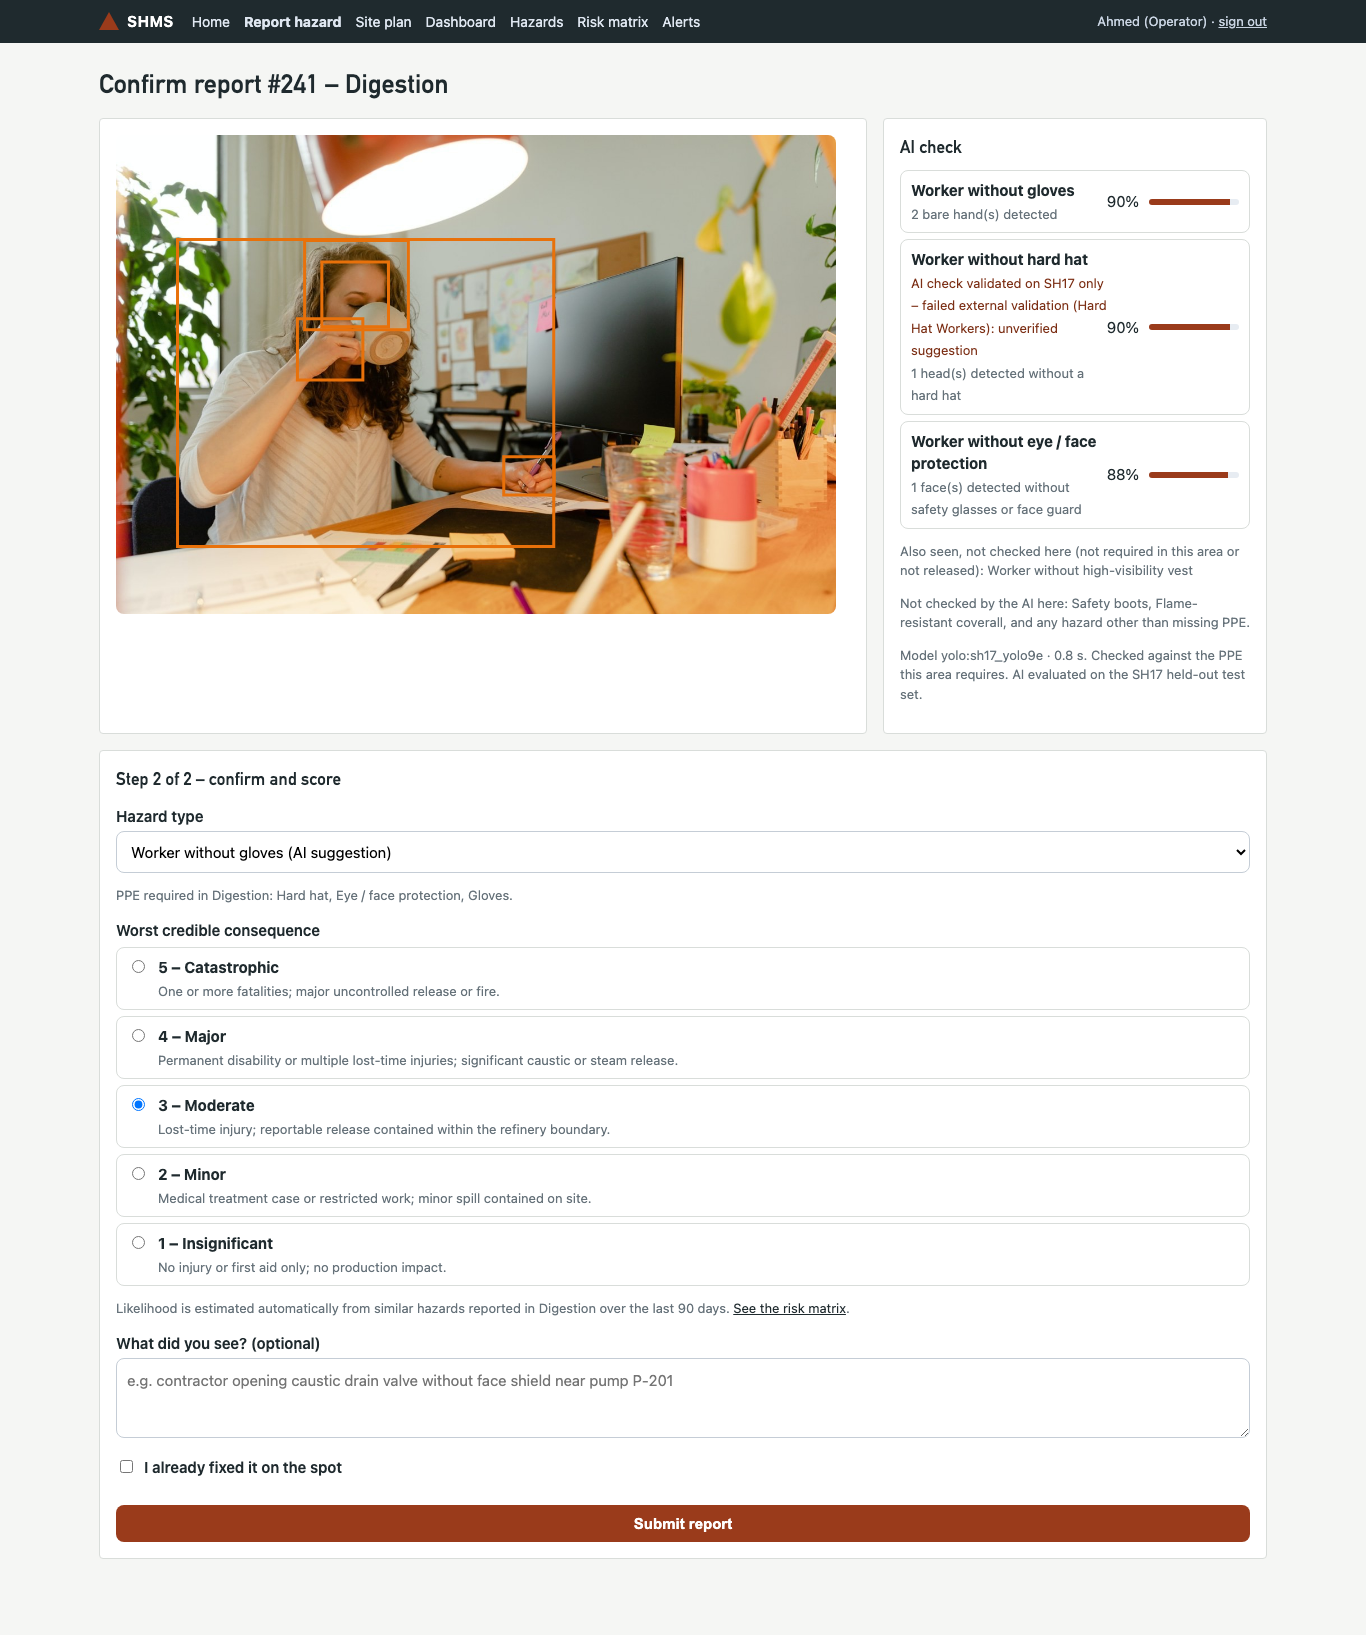
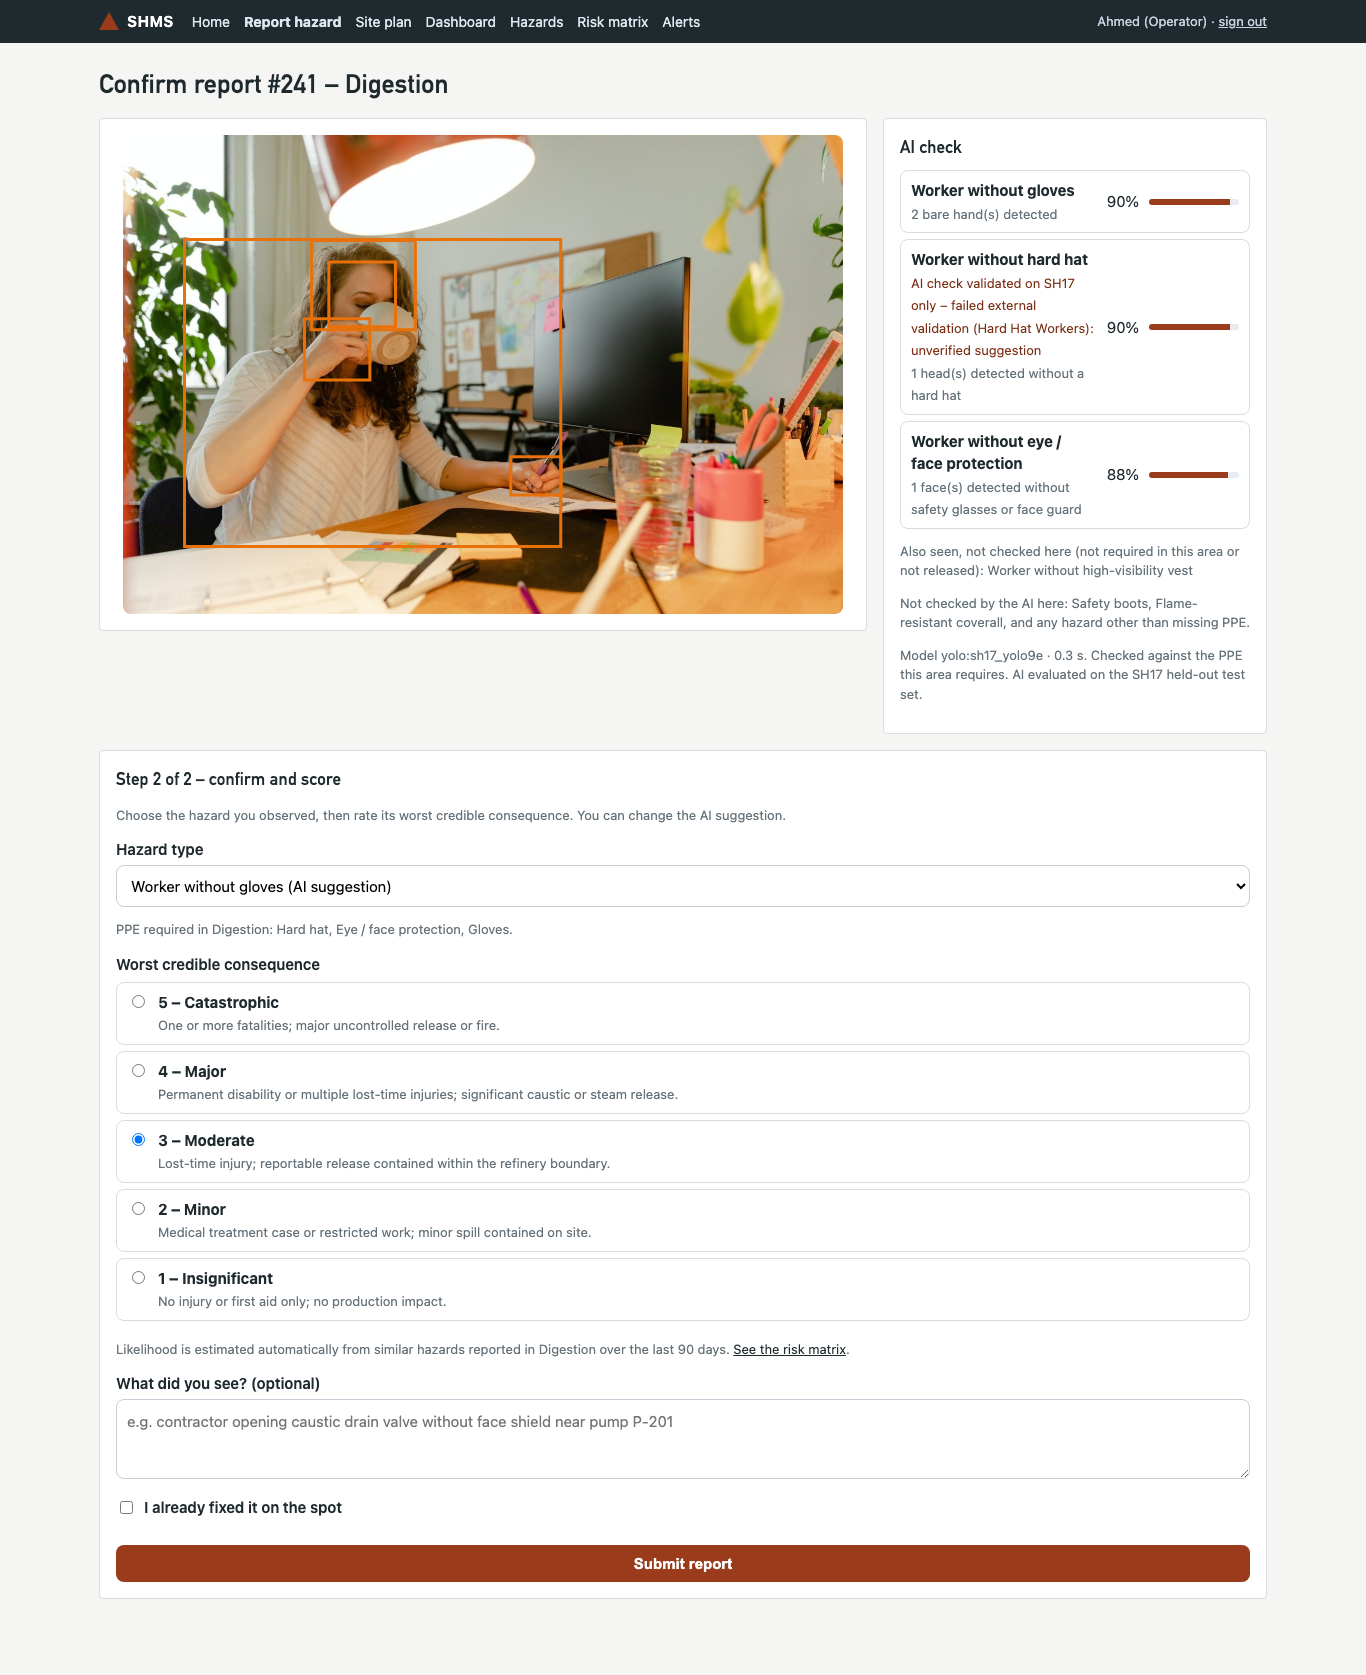
Improve accessible safety workflows and verify area entry for each role

diff --git a/shms/static/style.css b/shms/static/style.css
@@ -40,15 +40,15 @@ table { width: 100%; border-collapse: collapse; font-size: 14px; }
 th, td { text-align: left; padding: 8px 6px; border-bottom: 1px solid var(--line); vertical-align: top; }
 th { color: var(--muted); font-weight: 600; font-size: 13px; }
 .lvl { display: inline-block; border-radius: 6px; padding: 1px 8px; font-size: 12px; font-weight: 700; color: #fff; white-space: nowrap; }
-.lvl.Low { background: var(--low); } .lvl.Medium { background: var(--medium); color: #3b2d00; }
-.lvl.High { background: var(--high); } .lvl.Extreme { background: var(--extreme); }
+.lvl.Low { background: var(--low); } .lvl.Medium { background: var(--medium); color: #221a00; }
+.lvl.High { background: var(--high); color: #221a00; } .lvl.Extreme { background: var(--extreme); }
 .st { display: inline-block; border-radius: 6px; padding: 1px 8px; font-size: 12px; background: #e7ecf2; }
 .st.open { background: #fff1e0; color: #8a4b00; } .st.closed { background: #e6f4e7; color: #1f5f22; }
 .st.planned { background: #e8f0fb; color: #1d4f91; } .st.pending_verification { background: #f3e8fb; color: #5b2a86; }
 .timeline li.verified::before { background: var(--low); } .timeline li.rejected::before, .timeline li.reopened::before { background: var(--extreme); }
 .muted { color: var(--muted); } .small { font-size: 13px; }
 label { display: block; font-weight: 600; margin: 12px 0 4px; }
-input[type=text], select, textarea, input[type=file] { width: 100%; padding: 10px; border: 1px solid #c5cdd6; border-radius: 8px; font: inherit; background: #fff; }
+input[type=text], input[type=password], select, textarea, input[type=file] { width: 100%; padding: 10px; border: 1px solid #c5cdd6; border-radius: 8px; font: inherit; background: #fff; }
 textarea { min-height: 80px; }
 .radio-list label { font-weight: 400; display: flex; gap: 10px; align-items: flex-start; border: 1px solid var(--line); border-radius: 8px; padding: 8px 10px; margin: 6px 0; cursor: pointer; }
 .radio-list input { margin-top: 4px; }
@@ -126,3 +126,25 @@ h3 { font-size: 15px; margin: 14px 0 8px; }
 }
 @media (max-width: 600px) { .plan-tools { position: static; justify-content: flex-end; padding: 6px; border-bottom: 1px solid var(--line); } }
 .caveat { color: var(--accent-dark); }
+
+.table-scroll { overflow-x: auto; }
+.grid > *, .cols > * { min-width: 0; }
+.radio-list { margin: 14px 0 0; padding: 0; border: 0; }
+.radio-list legend { padding: 0; font-weight: 600; }
+.skip-link { position: absolute; z-index: 5; top: 8px; left: 8px; transform: translateY(-180%); background: white; padding: 8px 14px; }
+.skip-link:focus { transform: none; }
+:focus-visible { box-shadow: 0 0 0 5px var(--brand); }
+@media (max-width: 600px) {
+  header.top nav { flex-basis: 100%; column-gap: 16px; row-gap: 0; }
+  header.top nav a { display: inline-flex; align-items: center; min-height: 32px; }
+  header.top .bar { gap: 6px; }
+  .btn, select, input[type=text], input[type=password] { min-height: 44px; }
+}
+
+.confirm-evidence { grid-template-columns: minmax(0, 3fr) minmax(320px, 2fr); align-items: start; }
+.confirm-evidence .photo-wrap { display: block; width: fit-content; margin: 0 auto; }
+.confirm-evidence .sugg { gap: 12px; }
+@media (max-width: 860px) {
+  .confirm-evidence { grid-template-columns: 1fr; }
+  .confirm-evidence .sugg { flex-wrap: wrap; }
+}

diff --git a/shms/templates/hazards.html b/shms/templates/hazards.html
@@ -4,13 +4,13 @@
 {% block content %}
 <h1>Hazard register</h1>
 <form class="card filters" method="get">
-  <div><label>Status</label><select name="status"><option value="">All</option>
+  <div><label for="filter-status">Status</label><select id="filter-status" name="status"><option value="">All</option>
     {% for s in ('open','planned','pending_verification','closed') %}<option value="{{ s }}" {% if f.status == s %}selected{% endif %}>{{ s | replace('_', ' ') }}</option>{% endfor %}</select></div>
-  <div><label>Area</label><select name="area"><option value="">All</option>
+  <div><label for="filter-area">Area</label><select id="filter-area" name="area"><option value="">All</option>
     {% for a in areas %}<option value="{{ a.code }}" {% if f.area == a.code %}selected{% endif %}>{{ a.name }}</option>{% endfor %}</select></div>
-  <div><label>Risk level</label><select name="level"><option value="">All</option>
+  <div><label for="filter-level">Risk level</label><select id="filter-level" name="level"><option value="">All</option>
     {% for l in ('Extreme','High','Medium','Low') %}<option {% if f.level == l %}selected{% endif %}>{{ l }}</option>{% endfor %}</select></div>
-  <div><label>Type</label><select name="category"><option value="">All</option>
+  <div><label for="filter-category">Type</label><select id="filter-category" name="category"><option value="">All</option>
     {% for code in taxonomy.enabled_codes() %}{% set c = taxonomy.get(code) %}<option value="{{ c.code }}" {% if f.category == c.code %}selected{% endif %}>{{ c.name }}</option>{% endfor %}</select></div>
   <div style="flex:0"><button class="btn" type="submit">Filter</button></div>
 </form>
@@ -22,7 +22,7 @@
     <tr><td><a href="/hazards/{{ h.id }}">{{ h.id }}</a></td><td>{{ h.created_at | dt }}</td><td>{{ h.area.code }}</td>
       <td>{{ h.category_code | cat }}</td><td>{{ level(h.risk_level) }} {{ h.risk_score }}</td><td>{{ status(h.status) }}</td>
       <td class="small muted">{{ h.closure_action or '' }}</td></tr>
-    {% endfor %}
+    {% else %}<tr><td colspan="7" class="muted">No hazards match these filters. <a href="/hazards">Clear filters</a></td></tr>{% endfor %}
   </table>
 </div>
 {% endblock %}

diff --git a/shms/templates/confirm.html b/shms/templates/confirm.html
@@ -4,8 +4,8 @@
 {% block content %}
 {% set req = suggestions | selectattr('required') | list %}{% set top = req[0] if req else None %}
 <h1>Confirm report #{{ h.id }} – {{ h.area.name }}</h1>
-{% if error %}<div class="alert err">{{ error }}</div>{% endif %}
-<div class="grid two">
+{% if error %}<div class="alert err" role="alert">{{ error }}</div>{% endif %}
+<div class="grid two confirm-evidence">
   <div class="card">
     {% if h.photo_path %}
       {% set ev = [] %}{% for s in suggestions %}{% for b in s.evidence %}{% set _ = ev.append(b) %}{% endfor %}{% endfor %}
@@ -41,6 +41,7 @@
 <form class="card" method="post" action="/hazards/{{ h.id }}/confirm" enctype="multipart/form-data">
       <input type="hidden" name="csrf_token" value="{{ csrf_token }}">
   <h2>Step 2 of 2 – confirm and score</h2>
+  <p class="muted small">Choose the hazard you observed, then rate its worst credible consequence. You can change the AI suggestion.</p>
   <label for="cat">Hazard type</label>
   <select id="cat" name="category_code" required>
     {% for code in h.area.report_codes %}{% set c = taxonomy.get(code) %}
@@ -49,13 +50,12 @@
   </select>
   <p class="muted small">PPE required in {{ h.area.name }}: {{ h.area.check_codes | map('ppe') | join(', ') }}.</p>
 
-  <label>Worst credible consequence</label>
-  <div class="radio-list">
+  <fieldset class="radio-list"><legend>Worst credible consequence</legend>
   {% for lvl, spec in consequences.items() | reverse %}
     <label><input type="radio" name="consequence" value="{{ lvl }}" required {% if top and taxonomy.get(top.code).default_consequence == lvl %}checked{% endif %}>
       <span><strong>{{ lvl }} – {{ spec.name }}</strong><br><span class="muted small">{{ spec.definition }}</span></span></label>
   {% endfor %}
-  </div>
+  </fieldset>
   <p class="muted small">Likelihood is estimated automatically from similar hazards reported in {{ h.area.name }} over the last {{ risk.lookback_days() }} days. <a href="/matrix" target="_blank">See the risk matrix</a>.</p>
 
   <label for="desc">What did you see? (optional)</label>

diff --git a/shms/templates/_macros.html b/shms/templates/_macros.html
@@ -18,7 +18,7 @@
 {% macro heatmap(rows) -%}
 {% set colors = {'Low': '#2e7d32', 'Medium': '#f9a825', 'High': '#ef6c00', 'Extreme': '#c62828'} %}
 <div class="heatmap">
-<svg viewBox="0 0 1000 590" role="img" aria-label="Refinery heat map of open hazard risk by area">
+<svg viewBox="0 0 1000 590" role="group" aria-label="Refinery heat map of open hazard risk by area">
   <rect x="0" y="0" width="1000" height="590" fill="#eef1f4" rx="10"/>
   <!-- Bayer process flow (synthesized layout) -->
   <g stroke="#9aa6b2" stroke-width="4" fill="none" stroke-dasharray="8 6">
@@ -26,7 +26,7 @@
     <path d="M905 270 V300"/><path d="M660 425 H640"/><path d="M360 425 H380"/>
   </g>
   {% for r in rows %}{% set a = r.area %}
-  <a href="/areas/{{ a.code }}">
+  <a href="/areas/{{ a.code }}" aria-label="{{ a.name }}: {{ r.open }} open, total open risk {{ r.heat }}">
     <rect x="{{ a.x }}" y="{{ a.y }}" width="{{ a.w }}" height="{{ a.h }}" rx="8"
           fill="{{ colors[r.worst_level] if r.worst_level else '#cfd8dc' }}"
           fill-opacity="{{ (0.25 + 0.75 * r.heat_ratio) if r.worst_level else 0.6 }}" stroke="#1f3a5f" stroke-width="2"/>

diff --git a/shms/templates/matrix.html b/shms/templates/matrix.html
@@ -16,12 +16,12 @@
 <section class="panel source project">
   <h2>Defined by this project</h2>
   <div class="cols">
-    <div style="overflow-x:auto">
+    <div class="table-scroll" role="region" aria-label="Consequence by likelihood scores" tabindex="0">
       <table class="matrix">
         <tr><th></th>{% for lk, spec in risk.likelihood_levels().items() %}<th style="text-align:center">L{{ lk }}<br>{{ spec.name }}</th>{% endfor %}</tr>
         {% for row in table %}
         <tr><th>C{{ row[0].consequence }} {{ risk.consequence_levels()[row[0].consequence].name }}</th>
-          {% for cell in row %}<td style="background:{{ cell.color }}{% if cell.level == 'Medium' %};color:#3b2d00{% endif %}">{{ cell.score }}<br><span style="font-weight:400;font-size:11px">{{ cell.level }}</span></td>{% endfor %}</tr>
+          {% for cell in row %}<td style="background:{{ cell.color }}{% if cell.level in ('Medium', 'High') %};color:#221a00{% endif %}">{{ cell.score }}<br><span style="font-weight:400;font-size:11px">{{ cell.level }}</span></td>{% endfor %}</tr>
         {% endfor %}
       </table>
     </div>

diff --git a/shms/templates/login.html b/shms/templates/login.html
@@ -3,11 +3,11 @@
 {% block content %}
 <div class="card" style="max-width:420px;margin:30px auto">
   <h1>Sign in</h1>
-  {% if error %}<div class="alert err small">{{ error }}</div>{% endif %}
+  {% if error %}<div class="alert err small" role="alert">{{ error }}</div>{% endif %}
   <form method="post" action="/login">
     <input type="hidden" name="csrf_token" value="{{ csrf_token }}">
     <label for="u">Username</label>
-    <input id="u" name="username" autocomplete="username" required autofocus>
+    <input type="text" id="u" name="username" autocomplete="username" required autofocus>
     <label for="p">Password</label>
     <input id="p" name="password" type="password" autocomplete="current-password" required>
     <br><br><button class="btn" type="submit">Sign in</button>

diff --git a/shms/templates/base.html b/shms/templates/base.html
@@ -7,6 +7,7 @@
   <link rel="stylesheet" href="/static/style.css">
 </head>
 <body>
+<a class="skip-link" href="#main">Skip to main content</a>
 <header class="top"><div class="bar">
   <a class="logo" href="/"><span class="tri"></span>SHMS</a>
   {% if user %}
@@ -24,7 +25,7 @@
   <div class="who">{{ user.name }} · <form method="post" action="/logout" style="display:inline"><input type="hidden" name="csrf_token" value="{{ csrf_token }}"><button class="linkbtn" type="submit">sign out</button></form></div>
   {% endif %}
 </div></header>
-<main>
+<main id="main" tabindex="-1">
 {% block content %}{% endblock %}
 </main>
 </body>

diff --git a/shms/templates/dashboard.html b/shms/templates/dashboard.html
@@ -50,6 +50,7 @@
 
 <div class="card">
   <h2>Latest reports</h2>
+  <div class="table-scroll">
   <table>
     <tr><th>#</th><th>Reported</th><th>Area</th><th>Hazard</th><th>Risk</th><th>Status</th></tr>
     {% for h in recent %}
@@ -57,5 +58,6 @@
         <td>{{ h.category_code | cat }}</td><td>{{ level(h.risk_level) }} {{ h.risk_score }}</td><td>{{ status(h.status) }}</td></tr>
     {% endfor %}
   </table>
+  </div>
 </div>
 {% endblock %}

diff --git a/tests/test_site_layout.py b/tests/test_site_layout.py
@@ -1,9 +1,13 @@
 from datetime import timedelta
 from itertools import combinations
 
+import pytest
+from sqlalchemy import select
+
 from shms import site_layout
-from shms.models import Status, utcnow
+from shms.models import Area, Hazard, Status, utcnow
 from shms.seed import AREAS
+from shms.services import ACTIVE
 from tests.conftest import login
 from tests.test_workflow import report
 
@@ -47,10 +51,6 @@ def test_lots_do_not_overlap():
 
 def test_entry_panel_and_routing_ignore_display_filters(client, db):
     login(client, 9)
-    from sqlalchemy import select
-
-    from shms.models import Area, Hazard
-    from shms.services import ACTIVE
 
     area = db.scalar(select(Area).where(Area.code == "DIG"))
     hazard = db.scalar(select(Hazard).where(Hazard.area_id == area.id, Hazard.status.in_(ACTIVE)))
@@ -62,3 +62,13 @@ def test_entry_panel_and_routing_ignore_display_filters(client, db):
     assert "The destination has active High or Extreme" in page.text
     assert "Recent verified closures" in page.text and "Required PPE" in page.text
     assert 'id="walk-route"' not in page.text
+
+
+@pytest.mark.parametrize("user_id", [1, 4, 8, 9], ids=["reporter", "owner", "supervisor", "manager"])
+def test_every_role_can_check_entry_conditions(client, user_id):
+    login(client, user_id)
+    page = client.get("/site", params={"unit": "DIG", "route": "1"})
+    assert page.status_code == 200
+    assert 'id="unit-detail"' in page.text
+    assert "Chemical gloves" in page.text
+    assert "follow site rules and permits" in page.text

diff --git a/shms/web/pages.py b/shms/web/pages.py
@@ -13,10 +13,10 @@ from fastapi.templating import Jinja2Templates
 from sqlalchemy import select
 from sqlalchemy.orm import Session
 
-from .. import auth, escalate, policy, risk, services, taxonomy
+from .. import auth, escalate, policy, risk, services, site_layout, taxonomy
 from ..db import get_session
 from ..detection import get_detector
-from ..models import Area, Hazard, Notification, Role, Status, User
+from ..models import Area, Hazard, Notification, Role, Status, User, utcnow
 from ..settings import PACKAGE_DIR
 from .deps import PHOTO_NAME, current_user_optional, photo_file, save_photo
 
@@ -148,10 +148,8 @@ def site_plan(
     user: User = Depends(page_user),
     db: Session = Depends(get_session),
 ):
-    window_days = int(window) if window.isdigit() else 90
+    window_days = next((days for days in services.WINDOWS if str(days) == window), 90)
     view = services.site_overview(db, overlay=overlay, window_days=window_days, min_level=level or None)
-    from .. import site_layout
-    from ..models import utcnow
 
     selected = next((u for u in site_layout.UNITS if u.code == unit and u.reporting), None)
     area = db.scalar(select(Area).where(Area.code == unit)) if selected else None

diff --git a/docs/screenshots/shoot_confirm.py b/docs/screenshots/shoot_confirm.py
@@ -6,12 +6,13 @@
         data/samples/sh17_pexels-photo-7888728__no_hard_hat_no_eye_protection_no_gloves_no_hi_vis_vest.jpg
 """
 
+import os
 import sys
 
 from playwright.sync_api import sync_playwright
 
 out, photo = sys.argv[1], sys.argv[2]
-B = "http://127.0.0.1:8765"
+B = os.environ.get("SHMS_SCREENSHOT_URL", "http://127.0.0.1:8765")
 with sync_playwright() as p:
     br = p.chromium.launch()
     pg = br.new_context(viewport={"width": 1366, "height": 900}).new_page()
@@ -31,5 +32,6 @@ with sync_playwright() as p:
     label = pg.get_by_text("unverified suggestion").count()
     model = pg.get_by_text("sh17_yolo9e").count()
     print("url", pg.url, "| boxes drawn", boxes, "| label occurrences", label, "| model named", model)
+    assert boxes and label and model, "Missing real-model evidence on the confirmation page"
     pg.screenshot(path=out, full_page=True)
     br.close()

diff --git a/tests/test_accessible_register.py b/tests/test_accessible_register.py
@@ -1,0 +1,17 @@
+"""Regression checks for keyboard navigation and the empty filtered register."""
+
+from tests.conftest import login
+
+
+def test_register_labels_and_empty_state(client):
+    login(client, 9)
+    response = client.get("/hazards?area=missing-area")
+    assert response.status_code == 200
+    html = response.text
+    for key in ("status", "area", "level", "category"):
+        assert f'for="filter-{key}"' in html
+        assert f'id="filter-{key}"' in html
+    assert 'href="#main"' in html
+    assert '<main id="main" tabindex="-1">' in html
+    assert "No hazards match these filters." in html
+    assert "Clear filters" in html
